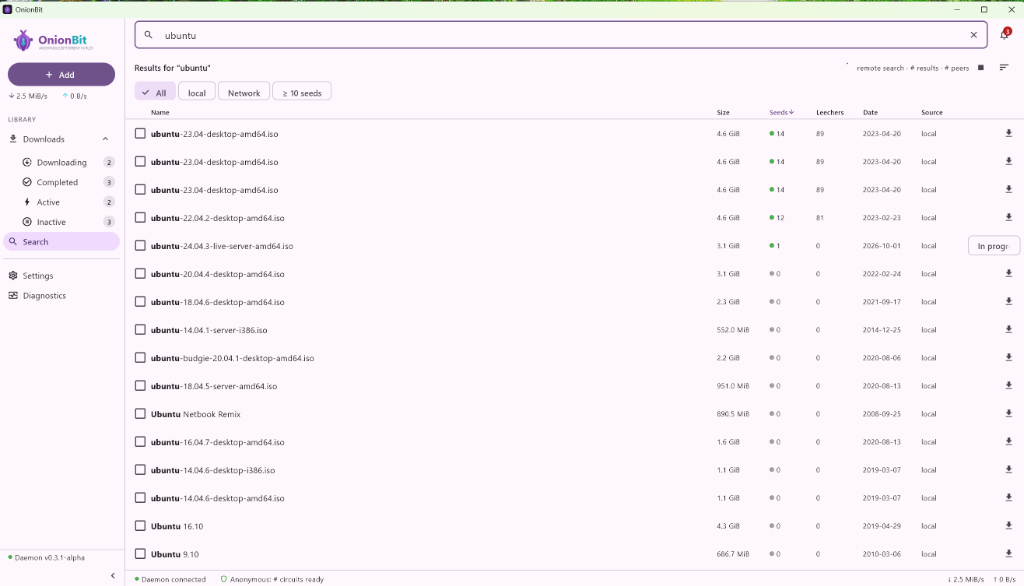
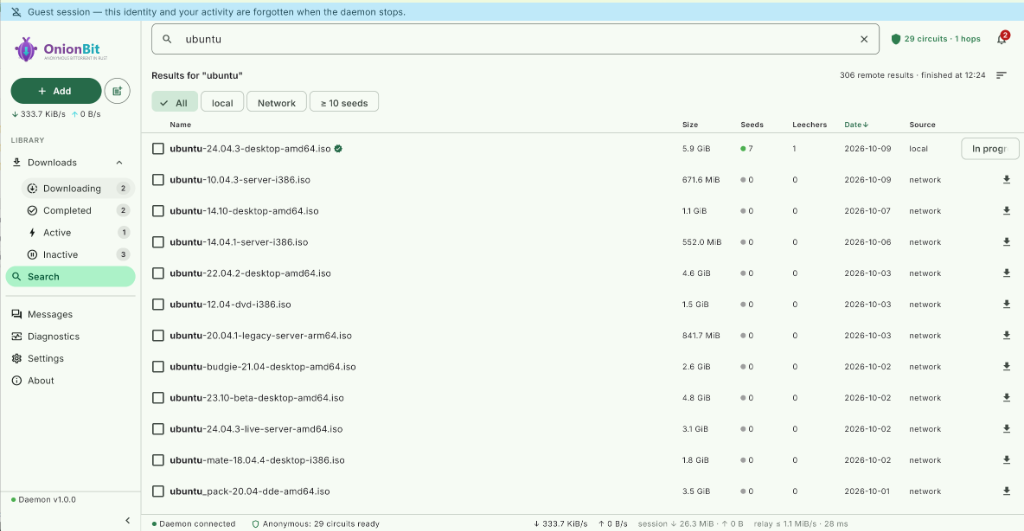
docs : captures v1.0.0 reeelles + fix rognage du badge anonymat
- 6 captures de la nouvelle UI remplacent les anciennes : downloads
  sombre, diagnostics, recherche, messagerie, reglages, clair FR ;
  table README etendue (messagerie + i18n mis en avant)
- download_status : badge borne a 76 px + ellipsis — « Clear » etait
  rogne au milieu d'un glyphe dans la cellule de 88 px

Generated with [Devin](https://devin.ai)

diff --git a/app/lib/features/downloads/presentation/widgets/download_status.dart b/app/lib/features/downloads/presentation/widgets/download_status.dart
@@ -117,6 +117,9 @@ class AnonBadge extends StatelessWidget {
           ? l10n.trafficDirect
           : l10n.anonTip(hops, waiting ? l10n.waitingCircuit : ''),
       child: Container(
+        // La cellule _RowBadges impose ~88 px : borner le badge sinon le
+        // texte est rogne au milieu d'un glyphe (« Clear » -> « Cleui »).
+        constraints: const BoxConstraints(maxWidth: 76),
         padding: const EdgeInsets.symmetric(horizontal: 5, vertical: 1),
         decoration: BoxDecoration(
           border: Border.all(color: !anon ? scheme.error : color),
@@ -138,9 +141,13 @@ class AnonBadge extends StatelessWidget {
               color: color,
             ),
             const SizedBox(width: 3),
-            Text(
-              !anon ? l10n.badgeClear : l10n.badgeAnon(hops),
-              style: TextStyle(fontSize: 10, color: color),
+            Flexible(
+              child: Text(
+                !anon ? l10n.badgeClear : l10n.badgeAnon(hops),
+                style: TextStyle(fontSize: 10, color: color),
+                overflow: TextOverflow.ellipsis,
+                softWrap: false,
+              ),
             ),
           ],
         ),

diff --git a/README.md b/README.md
@@ -315,15 +315,20 @@ Tribler 8.x network.*
 
 ## Screenshots
 
-| Downloads — multi-hop anonymity badges | Diagnostics — live circuits & relays |
+| Downloads — anonymous swarms, per-torrent hop badges | Diagnostics — live circuits, relays & exits |
 | :---: | :---: |
 | ![Downloads](assets/screenshots/screenshot-downloads.png) | ![Diagnostics](assets/screenshots/screenshot-diagnostic.png) |
 
-| Decentralized search | Settings & dark mode |
+| Decentralized search — trust badges, seed filters | Messaging — serverless e2e conversations |
 | :---: | :---: |
-| ![Search](assets/screenshots/screenshot-search.png) | ![Dark mode](assets/screenshots/screenshot-dark.png) |
+| ![Search](assets/screenshots/screenshot-search.png) | ![Messaging](assets/screenshots/screenshot-messaging.png) |
 
-*UI in English and French (System / English / Français in Settings → Appearance).*
+| Settings — categories, accents, free space | Light mode & French UI |
+| :---: | :---: |
+| ![Settings](assets/screenshots/screenshot-settings.png) | ![Light + FR](assets/screenshots/screenshot-light-fr.png) |
+
+*Real captures of v1.0.0 — adaptive shell, dark/light themes, English and
+French (System / English / Français in Settings → Appearance).*
 
 ## Architecture
 

diff --git a/docs/CHANGELOG.md b/docs/CHANGELOG.md
@@ -3,6 +3,17 @@
 Format : une entrée par étape de `docs/plans/roadmap.md`, la plus récente
 en haut.
 
+## Docs : nouvelles captures v1.0.0 + correctif badge anonymat (2026-10-09, worktree adr21)
+
+- **`assets/screenshots/`** : captures réelles de la nouvelle UI —
+  téléchargements sombre EN (badges « Anon +N » live), diagnostic
+  (circuits/relais/exits), recherche (306 résultats, badge confiance),
+  messagerie, réglages, mode clair FR ; `fr/screenshot-downloads` et
+  `screenshot-dark` régénérés. Table README étendue à 6 captures.
+- **`download_status.dart`** : badge `Clear`/`Anon` borné à 76 px +
+  `TextOverflow.ellipsis` — dans la cellule de 88 px, « Clear » était
+  rogné au milieu d'un glyphe (« Cleui »).
+
 ## Release : version 1.0.0 (2026-10-09, worktree adr21)
 
 - **Version workspace `0.9.4-beta` → `1.0.0`** (`Cargo.toml`,
